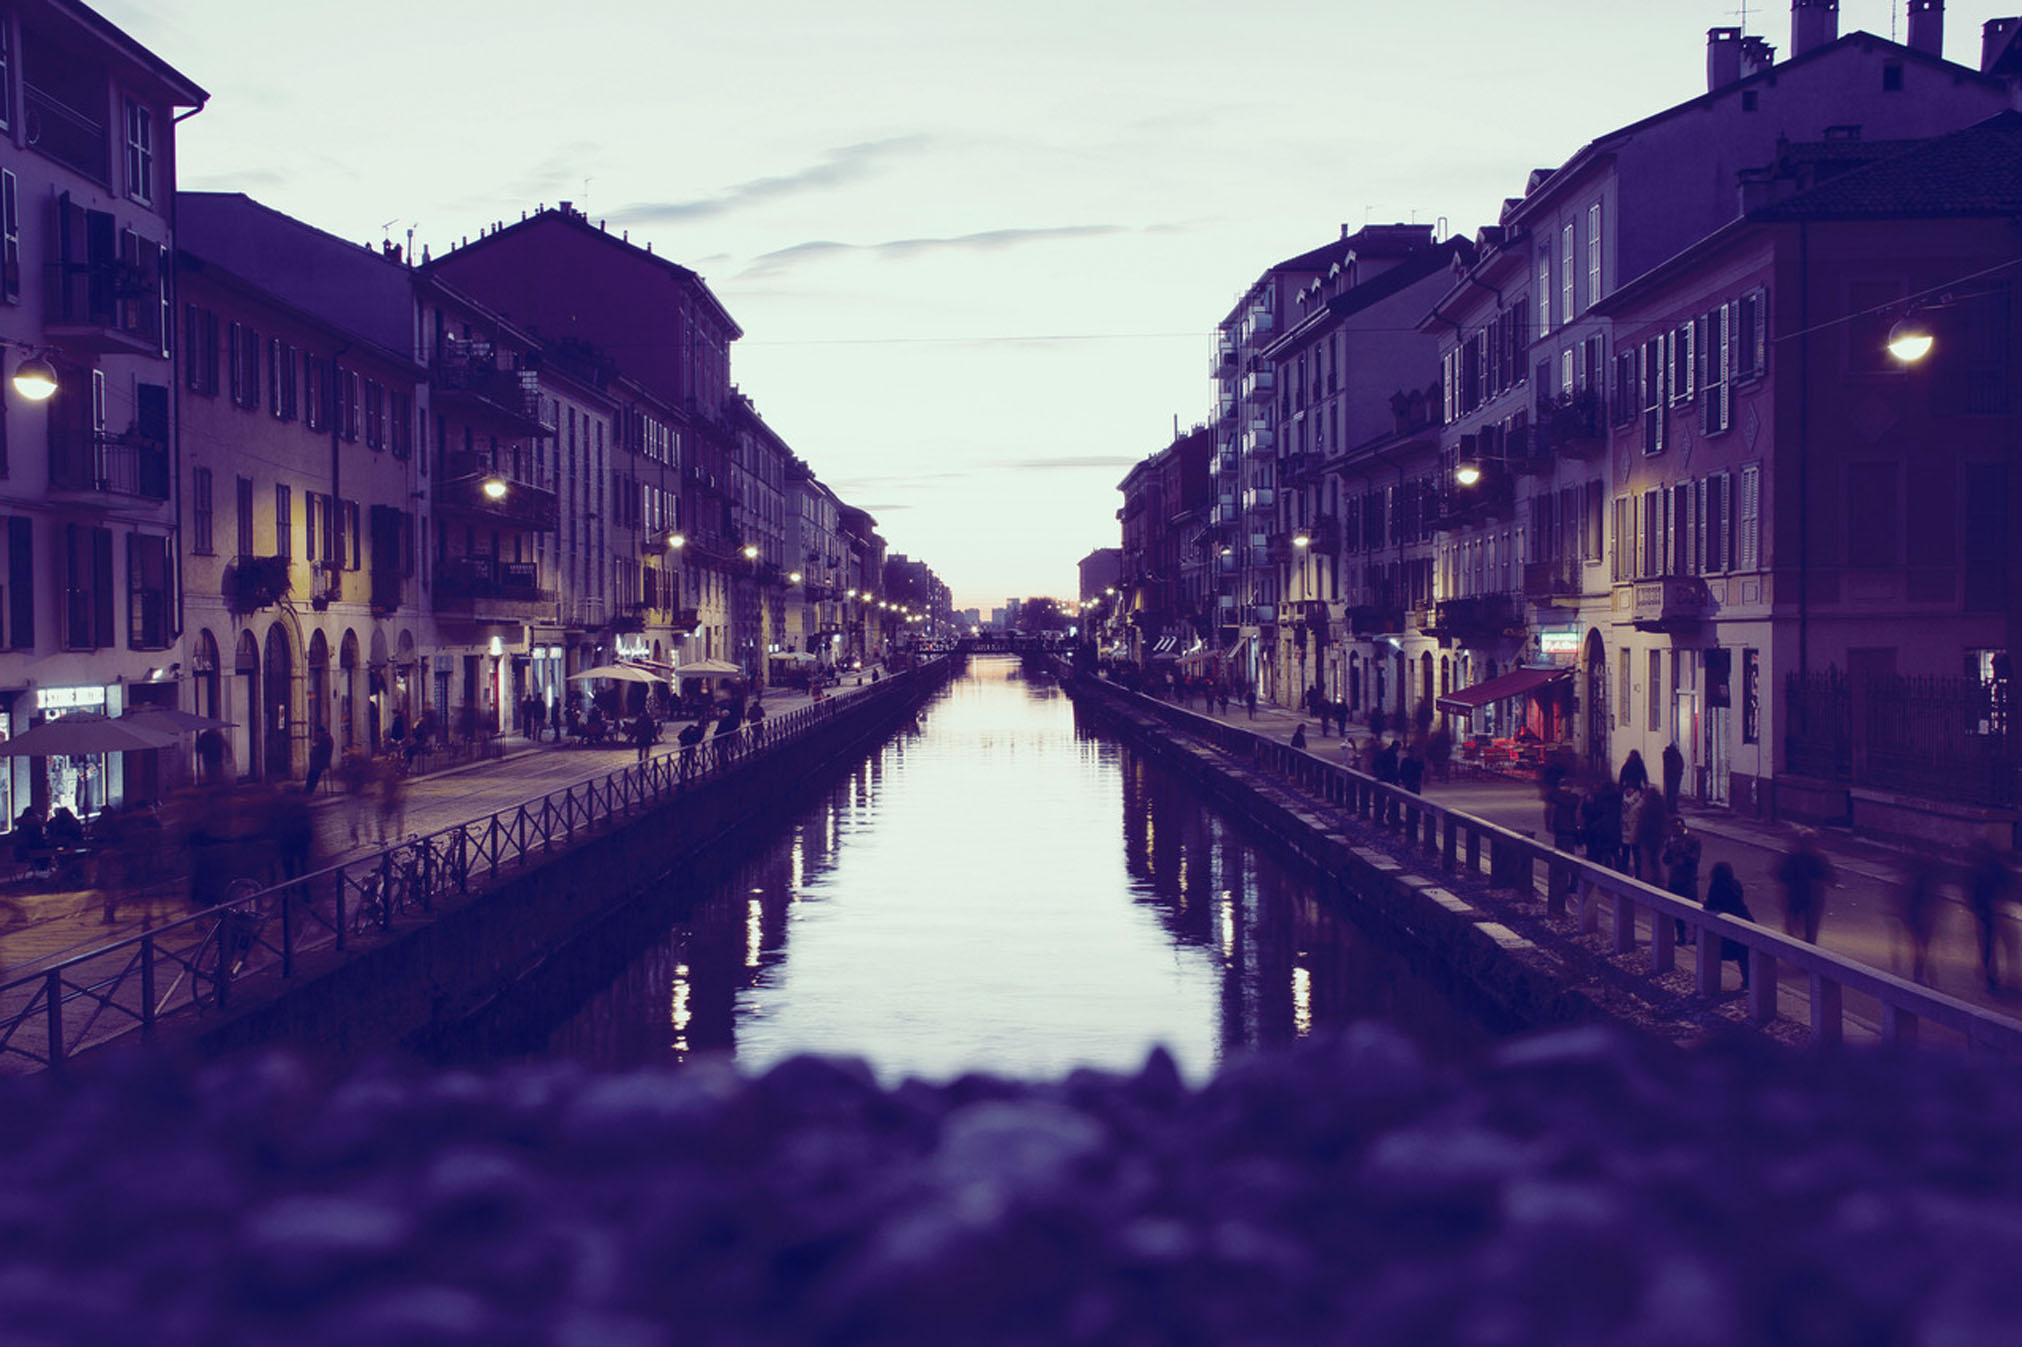
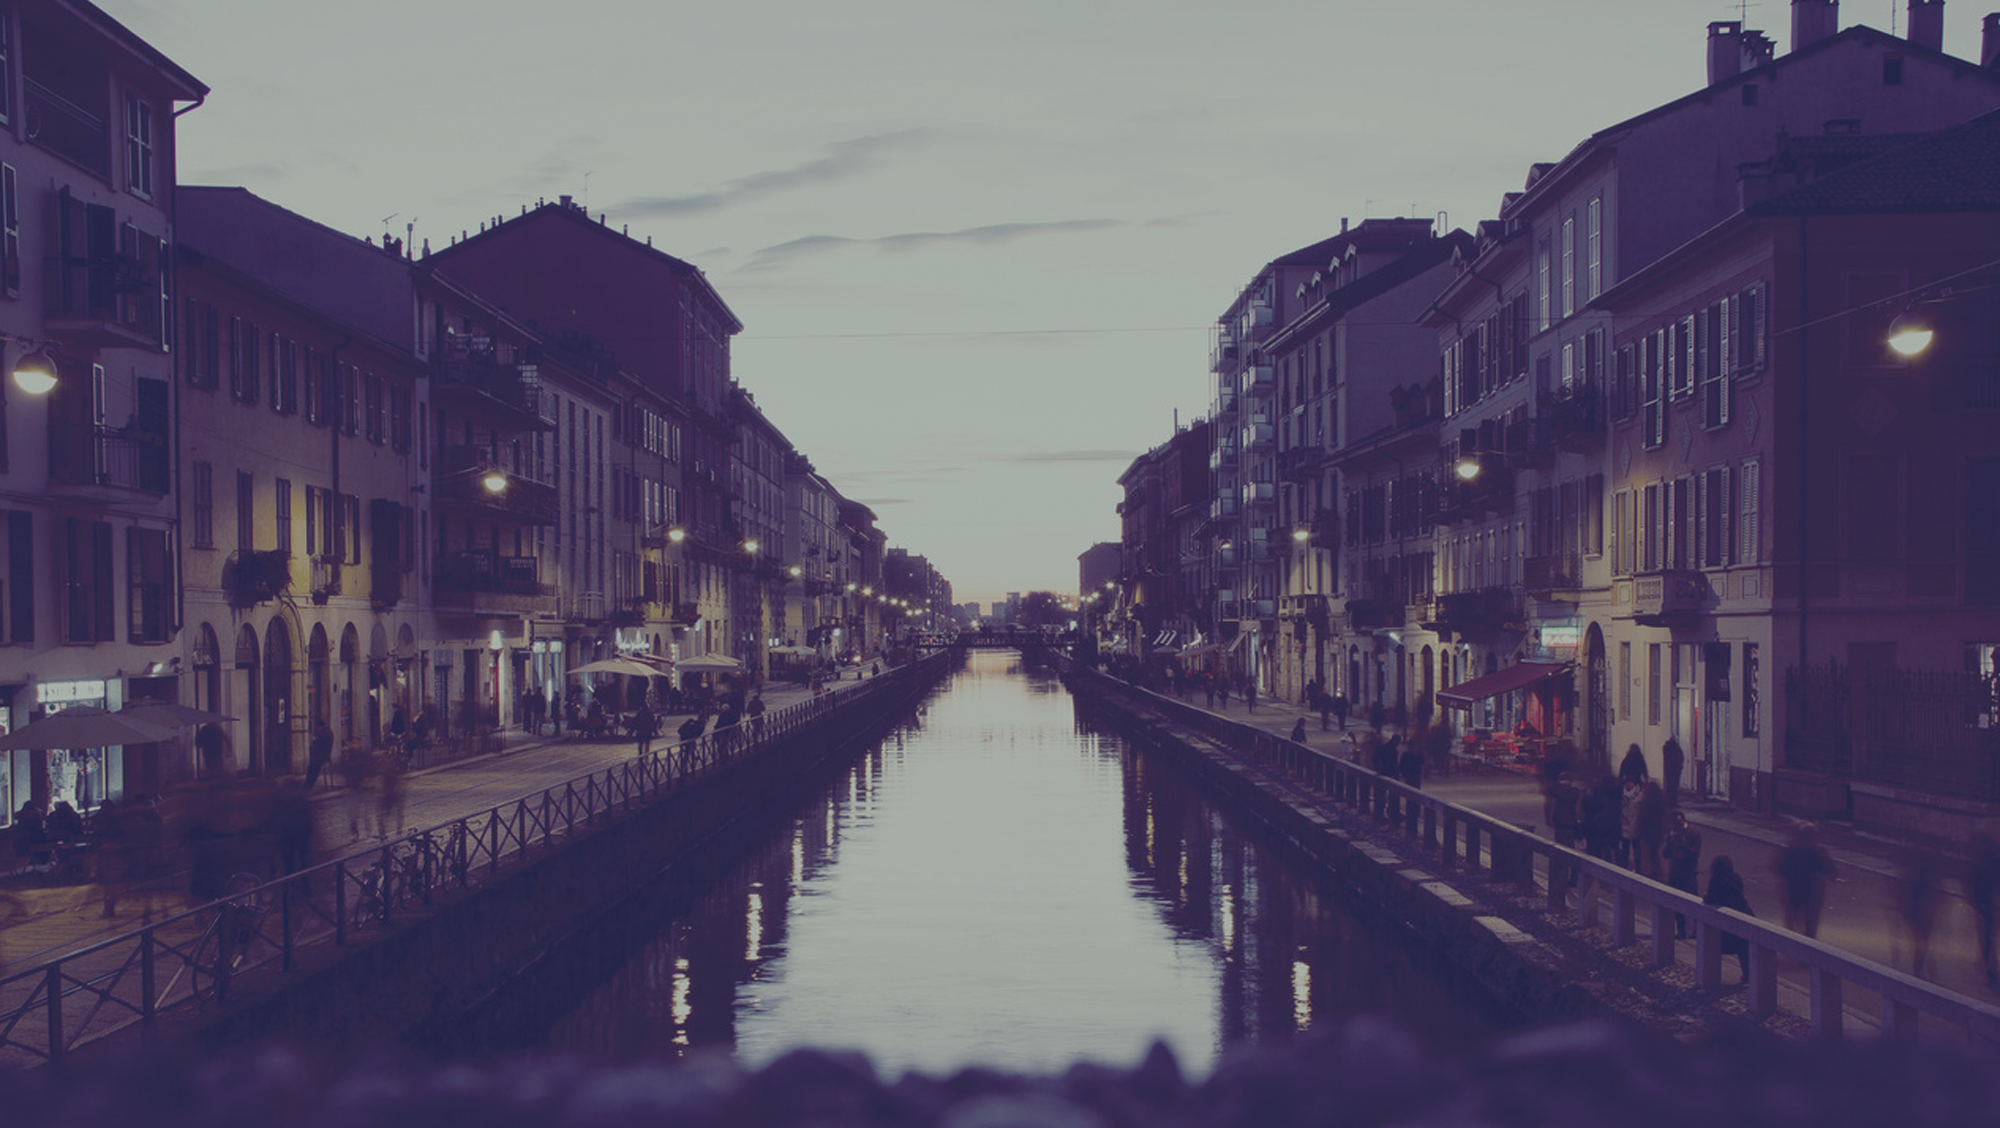
Modify style

diff --git a/src/Components/HomePage/index.js b/src/Components/HomePage/index.js
@@ -16,38 +16,41 @@ class HomePage extends React.Component {
     return (
       <div>
         <div className="home">
-          <div className="home__content">
-            <div className="home__logo">
-              <Logo color='#fff' fontSize='6rem'/>
-            </div>
-            <h1 className="home__title home__title--main">Fusce rutrum pretium lorem sempter nulla</h1>
-            <p className="home__title home__title--sub"> lorem ipsum furcum pretium lorem septer nulla gu op dunap sulem
-              lorem do burta</p>
-            <div className="home__icon-box">
-              <Link to="/about" className="home__icon">
-                <img className="icon__item" src={settings} alt="icon"/>
-                <p className="home__icon-text">About</p>
-              </Link>
-              <Link to="/team" className="home__icon">
-                <img className="icon__item" src={user} alt="icon"/>
-                <p className="home__icon-text">Team</p>
-              </Link>
-              <Link to="/services" className="home__icon">
-                <img className="icon__item" src={bubble} alt="icon"/>
-                <p className="home__icon-text">Services</p>
-              </Link>
-              <Link to="/portfolio" className="home__icon">
-                <img className="icon__item" src={photo} alt="icon"/>
-                <p className="home__icon-text">Portfolio</p>
-              </Link>
-              <Link to="/blog" className="home__icon">
-                <img className="icon__item" src={pen} alt="icon"/>
-                <p className="home__icon-text">Blog</p>
-              </Link>
-              <Link to="/contact" className="home__icon">
-                <img className="icon__item" src={paperplane} alt="icon"/>
-                <p className="home__icon-text">Contact</p>
-              </Link>
+          <div className="home__wrapper">
+            <div className="home__content">
+              <div className="home__logo">
+                <Logo color='#fff' fontSize='6rem'/>
+              </div>
+              <h1 className="home__title home__title--main">Fusce rutrum pretium lorem sempter nulla</h1>
+              <p className="home__title home__title--sub"> lorem ipsum furcum pretium lorem septer nulla gu op dunap
+                sulem
+                lorem do burta</p>
+              <div className="home__icon-box">
+                <Link to="/about" className="home__icon">
+                  <img className="icon__item" src={settings} alt="icon"/>
+                  <p className="home__icon-text">About</p>
+                </Link>
+                <Link to="/team" className="home__icon">
+                  <img className="icon__item" src={user} alt="icon"/>
+                  <p className="home__icon-text">Team</p>
+                </Link>
+                <Link to="/services" className="home__icon">
+                  <img className="icon__item" src={bubble} alt="icon"/>
+                  <p className="home__icon-text">Services</p>
+                </Link>
+                <Link to="/portfolio" className="home__icon">
+                  <img className="icon__item" src={photo} alt="icon"/>
+                  <p className="home__icon-text">Portfolio</p>
+                </Link>
+                <Link to="/blog" className="home__icon">
+                  <img className="icon__item" src={pen} alt="icon"/>
+                  <p className="home__icon-text">Blog</p>
+                </Link>
+                <Link to="/contact" className="home__icon">
+                  <img className="icon__item" src={paperplane} alt="icon"/>
+                  <p className="home__icon-text">Contact</p>
+                </Link>
+              </div>
             </div>
           </div>
         </div>

diff --git a/src/Components/HomePage/style.scss b/src/Components/HomePage/style.scss
@@ -1,10 +1,22 @@
+@import '../../Styles/var';
+
 .home {
-  height: 100vh;
+  position: relative;
+  height: auto;
   padding: 5rem 0;
   background-image: url(./img/home.jpg);
   background-position: center;
   background-repeat: no-repeat;
   background-size: cover;
+
+  //&__wrapper {
+  //  position: absolute;
+  //  top: 0;
+  //  left: 0;
+  //  width: 100%;
+  //  background-color: rgba(#000, 0.8)
+  //
+  //}
 
   &__content {
     margin: auto;
@@ -38,7 +50,7 @@
     justify-content: space-around;
     align-items: flex-end;
     flex-wrap: wrap;
-    height: 28rem;
+    min-height: 28rem;
   }
 
   &__icon {
@@ -48,6 +60,13 @@
     height: 13rem;
     border: 3px solid #fff;
     border-radius: 50%;
+    transition: all .3s;
+
+    &:hover {
+      background-color: rgba($secondary-color, 0.9);
+      border: 3px solid transparent;
+
+    }
 
     &:nth-child(3),
     &:nth-child(4) {

diff --git a/src/Components/Logo/index.js b/src/Components/Logo/index.js
@@ -7,7 +7,7 @@ class Logo extends React.Component {
       <span className="logo" style={{ fontSize: this.props.fontSize }}>
         <span style={{ color: this.props.color }}>Bhagas</span>
         <span className="logo__item logo__item--secondary">kara</span>
-        <span>.</span>
+        <span style={{ color: this.props.color }}>.</span>
       </span>
     );
   }
